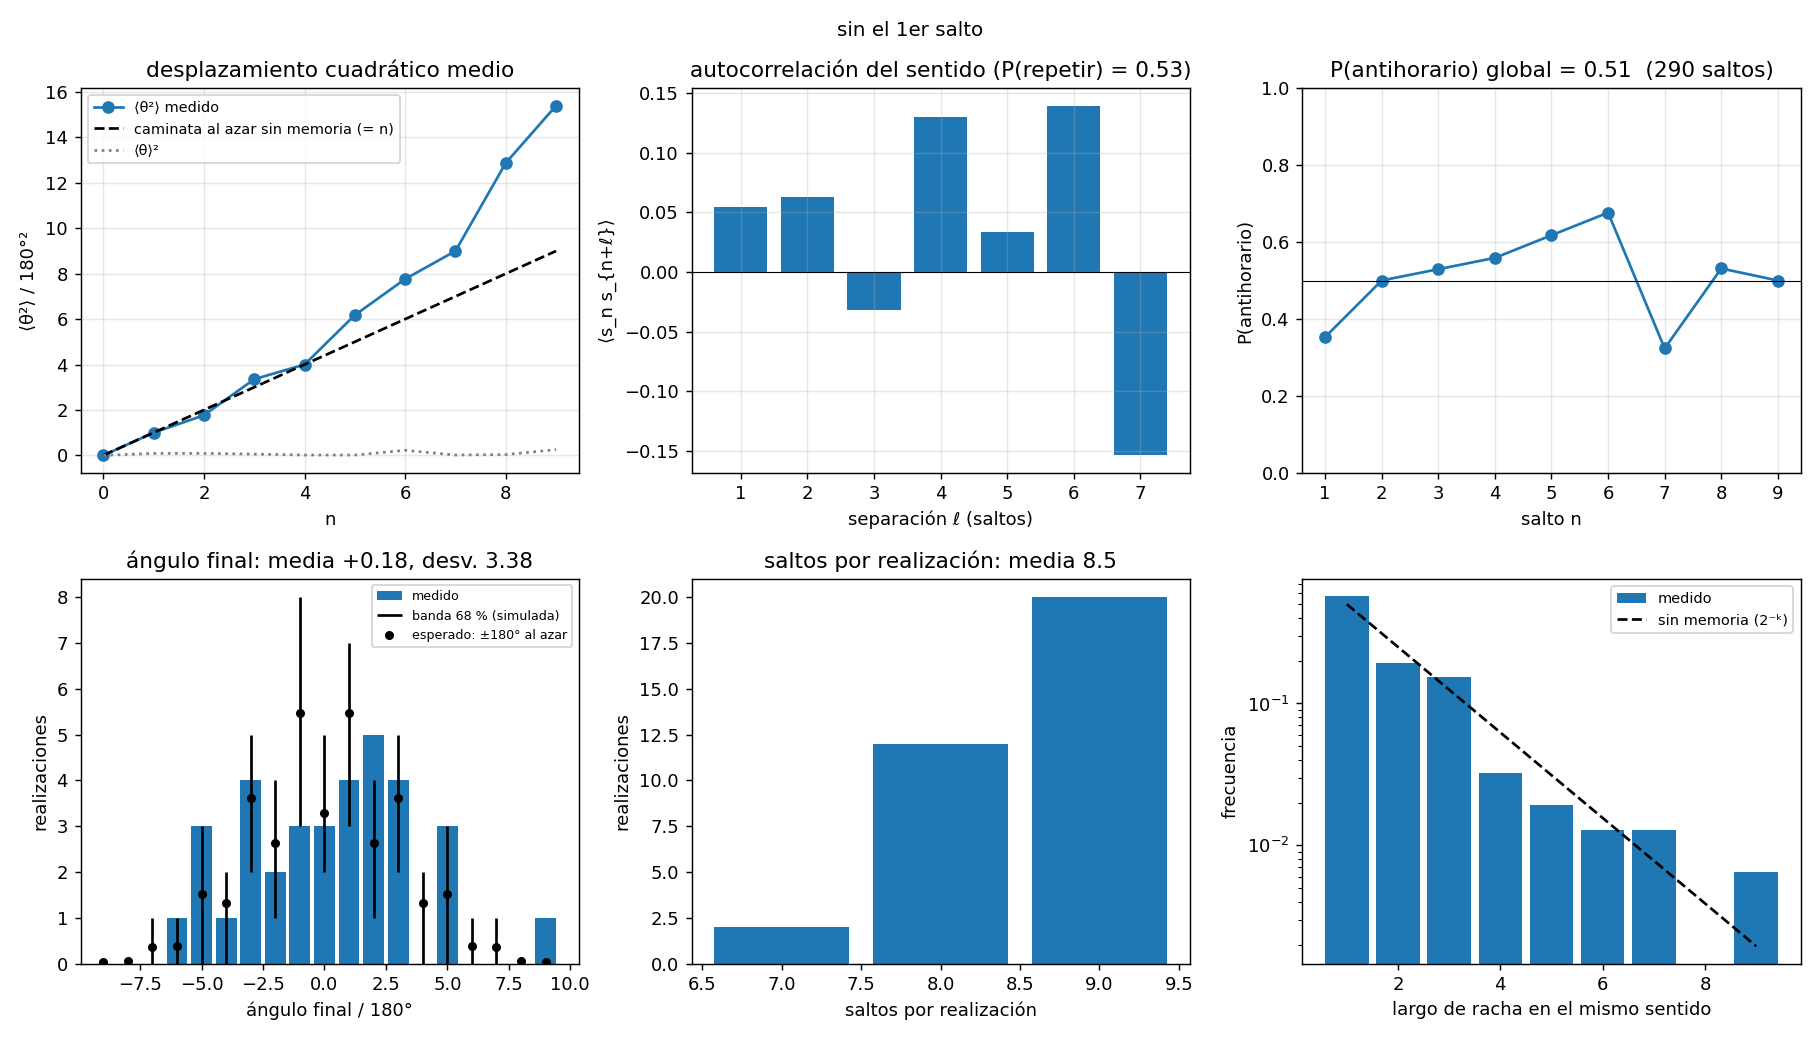
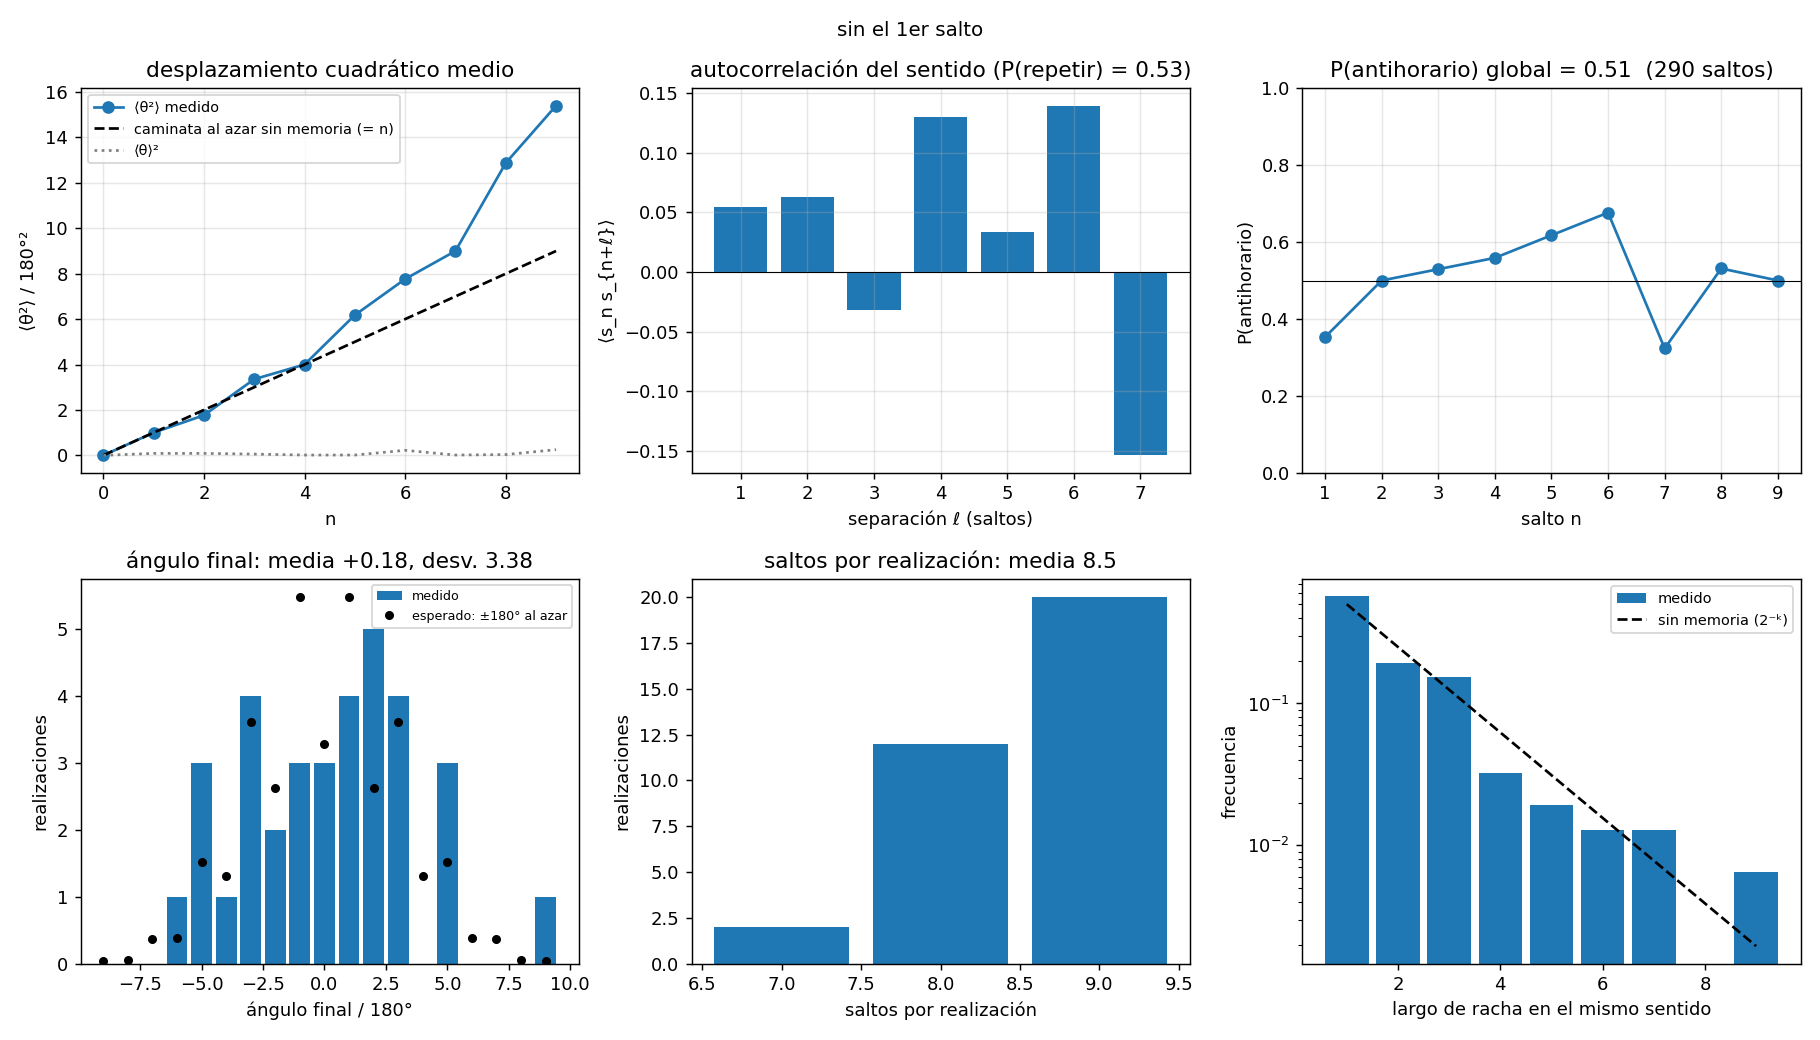
Ángulo final: mostrar sólo el valor esperado, sin barras
Claude-Session: https://claude.ai/code/session_01MBLmMLmExsEPGD6ozCqqeg

diff --git a/analiza_muchas.py b/analiza_muchas.py
@@ -324,15 +324,7 @@ def pass2(c, real, suf="", titulo=""):
     for n_ in nj:
         for k_ in range(n_ + 1):
             expct[2 * k_ - n_ + nj.max()] += comb(n_, k_) / 2 ** n_
-    # banda: intervalo central del 68 % de los conteos por bin en repeticiones simuladas de
-    # todas las realizaciones (asimétrica, entera y nunca negativa)
-    rng = np.random.default_rng(0)
-    sims = 2 * rng.binomial(nj[None, :], 0.5, size=(20000, len(nj))) - nj[None, :]
-    cnts = np.stack([(sims == v).sum(1) for v in xm], 1)
-    lo, hi = np.percentile(cnts, [16, 84], axis=0)
     keep = expct > 1e-3
-    # el intervalo no siempre contiene a la media (p. ej. media 0.2 -> [0, 0]): se dibuja aparte
-    a.vlines(xm[keep], lo[keep], hi[keep], color="k", lw=1.5, label="banda 68 % (simulada)")
     a.plot(xm[keep], expct[keep], "o", color="k", ms=4, label="esperado: ±180° al azar")
     a.legend(fontsize=7)
     a.set_xlabel("ángulo final / 180°"); a.set_ylabel("realizaciones")

diff --git a/README.md b/README.md
@@ -97,7 +97,7 @@ Cambios respecto del análisis del primer video:
   (la mano que vuelve) o sobre la base (la pieza que aterriza) se descarta.
 
 ![caminatas](muchas/angulo_vs_salto.png)
-![estadística](muchas/estadistica.png?v=3dfb9c8)
+![estadística](muchas/estadistica.png?v=4)
 
 ## Resultados (34 realizaciones, 324 saltos)
 
@@ -163,7 +163,7 @@ El primer salto depende de cómo se coloca la pieza (ver arriba), así que la ca
 python3 analiza_muchas.py muchas.mp4 muchas --sin-primer-salto   # -> muchas/*_sin1.*, muchas/tests_sin1.txt
 ```
 
-![estadística sin el 1er salto](muchas/estadistica_sin1.png?v=3dfb9c8)
+![estadística sin el 1er salto](muchas/estadistica_sin1.png?v=4)
 
 | | con 1er salto (`tests.txt`) | sin 1er salto (`tests_sin1.txt`) | moneda justa |
 |---|---|---|---|
@@ -176,11 +176,9 @@ python3 analiza_muchas.py muchas.mp4 muchas --sin-primer-salto   # -> muchas/*_s
 
 En el panel "ángulo final" de ambas figuras, los puntos negros son la distribución esperada
 si cada salto fuera ±180° al azar e independiente: suma de binomiales, una por realización con
-su número de saltos, P(θ_f/180 = 2k − n) = C(n,k)/2ⁿ. Las líneas verticales son la banda
-central del 68 % de los conteos por bin en 20000 repeticiones simuladas de las 34 realizaciones
-con moneda justa (asimétrica, entera y nunca negativa; equivale a ±1σ donde hay muchos casos).
+su número de saltos, P(θ_f/180 = 2k − n) = C(n,k)/2ⁿ.
 Con todos los saltos la distribución medida es más ancha que la esperada (faltan casos cerca
-de 0 y sobran en ±4…6); sin el primer salto casi todos los bins caen dentro de su barra.
+de 0 y sobran en ±4…6); sin el primer salto el acuerdo es bastante mejor.
 
 Sin el primer salto nada es significativo al 5 %: no hay sesgo, no hay memoria entre saltos
 y la dispersión es compatible con una moneda justa salvo por R16. ⟨θ²⟩ sigue a n hasta
